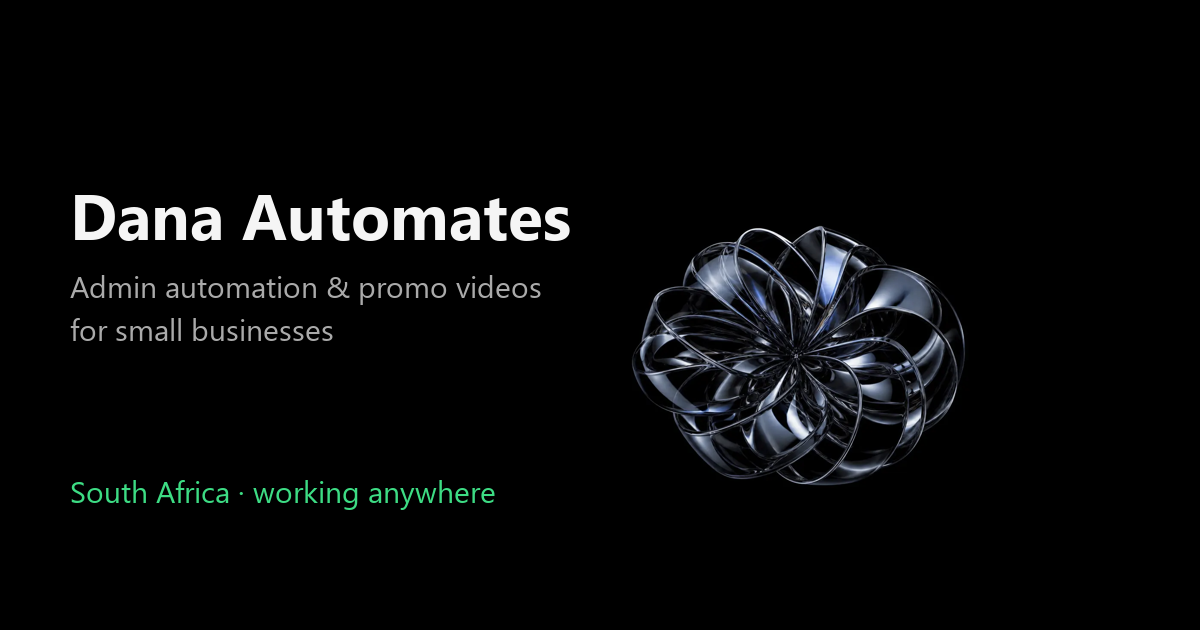
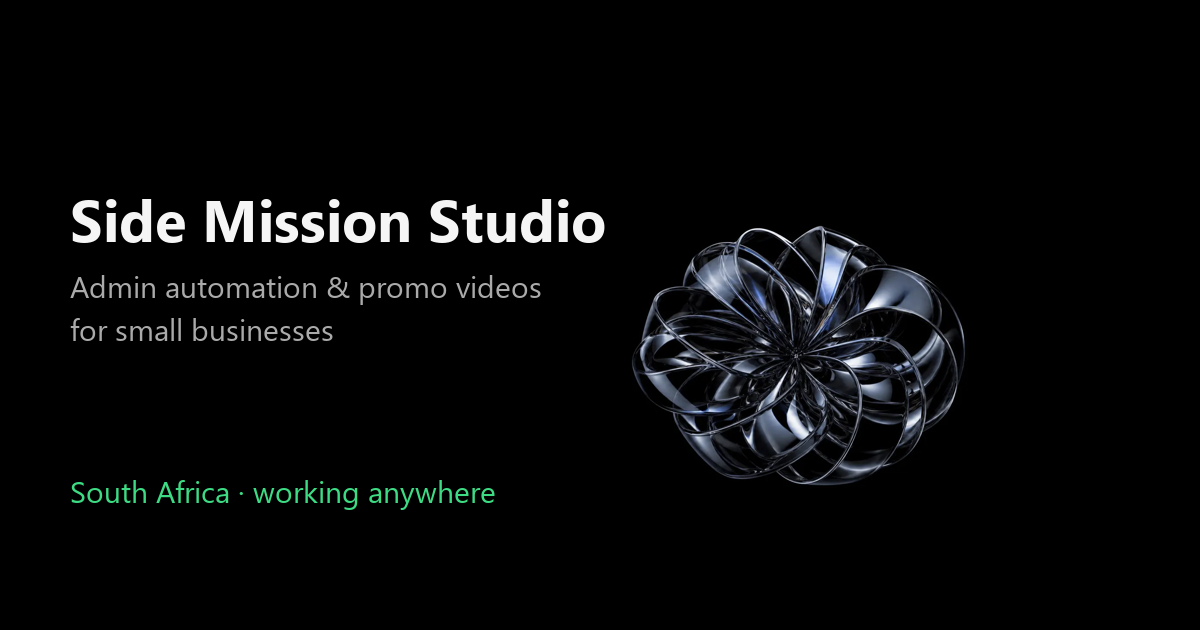
Rebrand to Side Mission Studio and move to sidemissionstudio.co.za

Changed region(s): [[0.0617, 0.3016, 0.5242, 0.3921]]

diff --git a/clipify/index.html b/clipify/index.html
@@ -3,17 +3,17 @@
 <head>
 <meta charset="UTF-8">
 <meta name="viewport" content="width=device-width, initial-scale=1.0">
-<title>Clipify — Stream clips ready by morning | Dana Automates</title>
+<title>Clipify — Stream clips ready by morning | Side Mission Studio</title>
 <meta name="description" content="A monthly clipping service for live streamers. Your VOD goes in overnight; captioned, quality-checked Shorts, TikToks and Reels come out by morning. From South Africa, priced in Rand.">
-<link rel="canonical" href="https://dana-automates.therondana65.workers.dev/clipify/">
+<link rel="canonical" href="https://sidemissionstudio.co.za/clipify/">
 <link rel="icon" href="/favicon.svg" type="image/svg+xml">
 <meta name="theme-color" content="#000000">
 <meta property="og:type" content="website">
-<meta property="og:site_name" content="Dana Automates">
+<meta property="og:site_name" content="Side Mission Studio">
 <meta property="og:title" content="Clipify — Your stream tonight. Clips ready by morning.">
 <meta property="og:description" content="Monthly clipping service for live streamers: captioned vertical clips, checked by a human, with titles and hashtags.">
-<meta property="og:url" content="https://dana-automates.therondana65.workers.dev/clipify/">
-<meta property="og:image" content="https://dana-automates.therondana65.workers.dev/assets/og-image.png">
+<meta property="og:url" content="https://sidemissionstudio.co.za/clipify/">
+<meta property="og:image" content="https://sidemissionstudio.co.za/assets/og-image.png">
 <meta name="twitter:card" content="summary_large_image">
 <link rel="preload" href="Geist-Variable.woff2" as="font" type="font/woff2" crossorigin>
 <link rel="stylesheet" href="clipify.css">
@@ -48,7 +48,7 @@
 <a class="announce" href="#pricing">Founding-streamer rates are open for my first channels <span aria-hidden="true">→</span></a>
 
 <nav class="top" aria-label="Main">
-  <a class="logo" href="#top"><span class="mark" aria-hidden="true"><svg><use href="#i-scissors"/></svg></span>Clipify <small>by Dana Automates</small></a>
+  <a class="logo" href="#top"><span class="mark" aria-hidden="true"><svg><use href="#i-scissors"/></svg></span>Clipify <small>by Side Mission Studio</small></a>
   <div class="nav-links">
     <a href="#features">Features</a>
     <a href="#how">How it works</a>
@@ -56,7 +56,7 @@
     <a href="#faq">FAQ</a>
   </div>
   <div class="nav-right">
-    <a class="ghost-link" href="/">Dana Automates</a>
+    <a class="ghost-link" href="/">Side Mission Studio</a>
     <a class="btn-white sm" href="#contact" data-enquiry="Clipify">Get started</a>
   </div>
 </nav>
@@ -440,7 +440,7 @@
         <a href="https://wa.me/27765606016?text=Hi%20Dana%2C%20I%27d%20like%20to%20try%20Clipify." target="_blank" rel="noopener">WhatsApp</a>
       </div>
       <div>
-        <p class="foot-h">Dana Automates</p>
+        <p class="foot-h">Side Mission Studio</p>
         <a href="/">Home</a>
         <a href="/#services">Other services</a>
       </div>

diff --git a/index.html b/index.html
@@ -3,17 +3,17 @@
 <head>
 <meta charset="UTF-8">
 <meta name="viewport" content="width=device-width, initial-scale=1.0">
-<title>Dana Automates — Admin automation &amp; promo videos for small businesses</title>
+<title>Side Mission Studio | Admin automation &amp; promo videos for small businesses</title>
 <meta name="description" content="I automate repetitive admin (invoice reminders, reports, spreadsheets, follow-ups) and make promo videos for small businesses. Based in South Africa, working anywhere.">
-<link rel="canonical" href="https://dana-automates.therondana65.workers.dev/">
+<link rel="canonical" href="https://sidemissionstudio.co.za/">
 <link rel="icon" href="favicon.svg" type="image/svg+xml">
 <meta name="theme-color" content="#000000">
 <meta property="og:type" content="website">
-<meta property="og:site_name" content="Dana Automates">
-<meta property="og:title" content="Dana Automates — Admin automation & promo videos">
+<meta property="og:site_name" content="Side Mission Studio">
+<meta property="og:title" content="Side Mission Studio | Admin automation & promo videos">
 <meta property="og:description" content="Small automations that save hours every week, and promo videos that get small businesses noticed.">
-<meta property="og:url" content="https://dana-automates.therondana65.workers.dev/">
-<meta property="og:image" content="https://dana-automates.therondana65.workers.dev/assets/og-image.png">
+<meta property="og:url" content="https://sidemissionstudio.co.za/">
+<meta property="og:image" content="https://sidemissionstudio.co.za/assets/og-image.png">
 <meta property="og:image:width" content="1200">
 <meta property="og:image:height" content="630">
 <meta name="twitter:card" content="summary_large_image">
@@ -26,7 +26,7 @@
 
 <nav aria-label="Main">
   <div class="wrap">
-    <a class="brand" href="#top"><span class="avatar" aria-hidden="true"></span>Dana Theron</a>
+    <a class="brand" href="#top"><span class="avatar" aria-hidden="true"></span>Side Mission Studio</a>
     <div class="links">
       <a href="#work">Work</a>
       <a href="#videos">Videos</a>
@@ -411,7 +411,7 @@
   <div class="wrap">
     <div class="foot">
       <div>
-        <a class="brand" href="#top"><span class="avatar" aria-hidden="true"></span>Dana Theron</a>
+        <a class="brand" href="#top"><span class="avatar" aria-hidden="true"></span>Side Mission Studio</a>
         <p class="tag">Admin automation and promo videos for small businesses. Based in South Africa, working anywhere.</p>
         <a class="mail" href="mailto:dana.automates@gmail.com">dana.automates@gmail.com</a>
       </div>
@@ -431,7 +431,7 @@
       </div>
     </div>
     <div class="legal">
-      <span>© 2026 Dana Theron</span>
+      <span>© 2026 Side Mission Studio by Dana Theron</span>
       <span>Built by hand. Runs itself.</span>
     </div>
   </div>

diff --git a/privacy.html b/privacy.html
@@ -3,9 +3,9 @@
 <head>
 <meta charset="UTF-8">
 <meta name="viewport" content="width=device-width, initial-scale=1.0">
-<title>Privacy Notice &amp; Terms — Dana Automates</title>
-<meta name="description" content="How Dana Automates collects, uses and protects your personal information under POPIA, plus the terms for using this website.">
-<link rel="canonical" href="https://dana-automates.therondana65.workers.dev/privacy">
+<title>Privacy Notice &amp; Terms | Side Mission Studio</title>
+<meta name="description" content="How Side Mission Studio collects, uses and protects your personal information under POPIA, plus the terms for using this website.">
+<link rel="canonical" href="https://sidemissionstudio.co.za/privacy">
 <link rel="icon" href="favicon.svg" type="image/svg+xml">
 <meta name="theme-color" content="#000000">
 <link rel="stylesheet" href="styles.css">
@@ -14,19 +14,19 @@
 <!-- Plain-language notice written to follow POPIA. Not legal advice — have it reviewed before relying on it for client contracts. -->
 <nav aria-label="Main">
   <div class="wrap">
-    <a class="brand" href="index.html"><span class="avatar" aria-hidden="true"></span>Dana Theron</a>
+    <a class="brand" href="index.html"><span class="avatar" aria-hidden="true"></span>Side Mission Studio</a>
     <div class="links"><a href="index.html">← Back to site</a></div>
   </div>
 </nav>
 
 <main class="doc">
   <h1>Privacy Notice</h1>
-  <p class="updated">Last updated: 15 October 2026</p>
+  <p class="updated">Last updated: 25 November 2026</p>
 
   <p>This notice explains how I handle personal information when you use this website or contact me, in line with South Africa's Protection of Personal Information Act (POPIA).</p>
 
   <h2>Who is responsible</h2>
-  <p>Dana Theron, trading as Dana Automates, a sole freelancer based in South Africa, is the responsible party. Contact: <a href="mailto:dana.automates@gmail.com">dana.automates@gmail.com</a>.</p>
+  <p>Dana Theron, trading as Side Mission Studio, a sole freelancer based in South Africa, is the responsible party. Contact: <a href="mailto:dana.automates@gmail.com">dana.automates@gmail.com</a>.</p>
 
   <h2>What I collect</h2>
   <p>If you send an enquiry through the form, I collect:</p>

diff --git a/hire/index.html b/hire/index.html
@@ -8,11 +8,11 @@
 <meta name="theme-color" content="#000000">
 <meta property="og:title" content="Dana Theron — Hire Me">
 <meta property="og:description" content="I build AI tools and make content people actually watch. Available from January 2027.">
-<meta property="og:image" content="https://dana-automates.therondana65.workers.dev/hire/poster.jpg">
-<meta property="og:url" content="https://dana-automates.therondana65.workers.dev/hire/">
+<meta property="og:image" content="https://sidemissionstudio.co.za/hire/poster.jpg">
+<meta property="og:url" content="https://sidemissionstudio.co.za/hire/">
 <meta property="og:type" content="profile">
 <meta name="twitter:card" content="summary_large_image">
-<link rel="canonical" href="https://dana-automates.therondana65.workers.dev/hire/">
+<link rel="canonical" href="https://sidemissionstudio.co.za/hire/">
 <link rel="icon" href="/favicon.svg" type="image/svg+xml">
 <link rel="stylesheet" href="hire.css">
 <script src="hire.js" defer></script>
@@ -92,7 +92,7 @@
     </article>
     <article class="card white">
       <div class="num">Live website</div>
-      <h3>Dana Automates, a site I designed and built</h3>
+      <h3>Side Mission Studio, a site I designed and built</h3>
       <p>My own small-business automation site: hand-coded, with a working contact form, promo videos and security headers, deployed on Cloudflare.</p>
       <a href="/">Visit the site →</a>
     </article>

diff --git a/brad-padel/index.html b/brad-padel/index.html
@@ -10,11 +10,11 @@
   <meta property="og:type" content="website">
   <meta property="og:title" content="Brad de Waal Padel Coaching | Lourensford">
   <meta property="og:description" content="Padel coaching for adults and kids at Lourensford. Share your preferences and arrange the session directly with Brad.">
-  <meta property="og:url" content="https://dana-automates.therondana65.workers.dev/brad-padel/">
-  <meta property="og:image" content="https://dana-automates.therondana65.workers.dev/brad-padel/share.jpg">
+  <meta property="og:url" content="https://sidemissionstudio.co.za/brad-padel/">
+  <meta property="og:image" content="https://sidemissionstudio.co.za/brad-padel/share.jpg">
   <meta name="twitter:card" content="summary_large_image">
-  <meta name="twitter:image" content="https://dana-automates.therondana65.workers.dev/brad-padel/share.jpg">
-  <link rel="canonical" href="https://dana-automates.therondana65.workers.dev/brad-padel/">
+  <meta name="twitter:image" content="https://sidemissionstudio.co.za/brad-padel/share.jpg">
+  <link rel="canonical" href="https://sidemissionstudio.co.za/brad-padel/">
   <link rel="icon" href="favicon.svg" type="image/svg+xml">
   <meta name="theme-color" content="#bfe8fa">
   <link rel="preconnect" href="https://fonts.googleapis.com">
